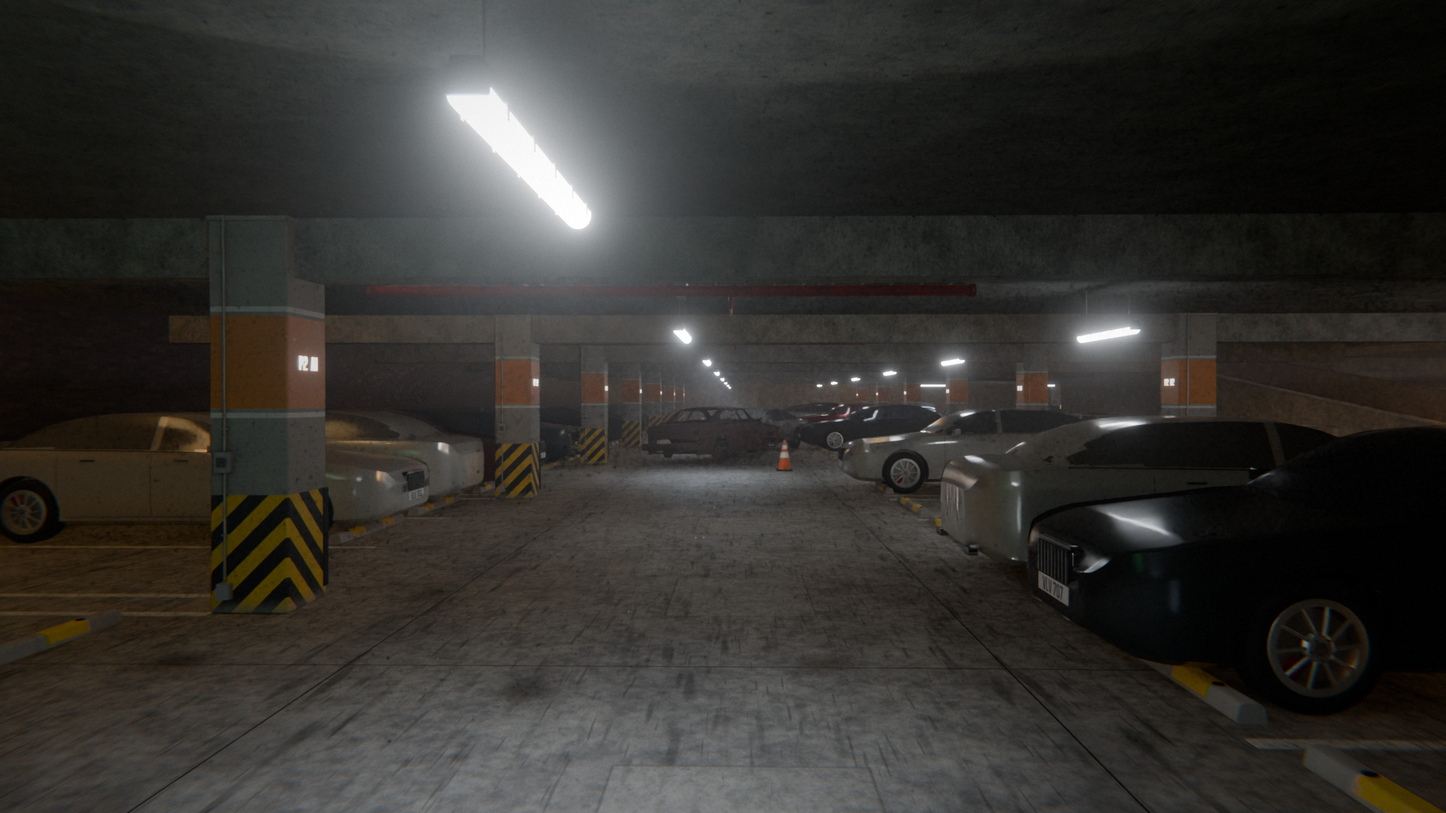
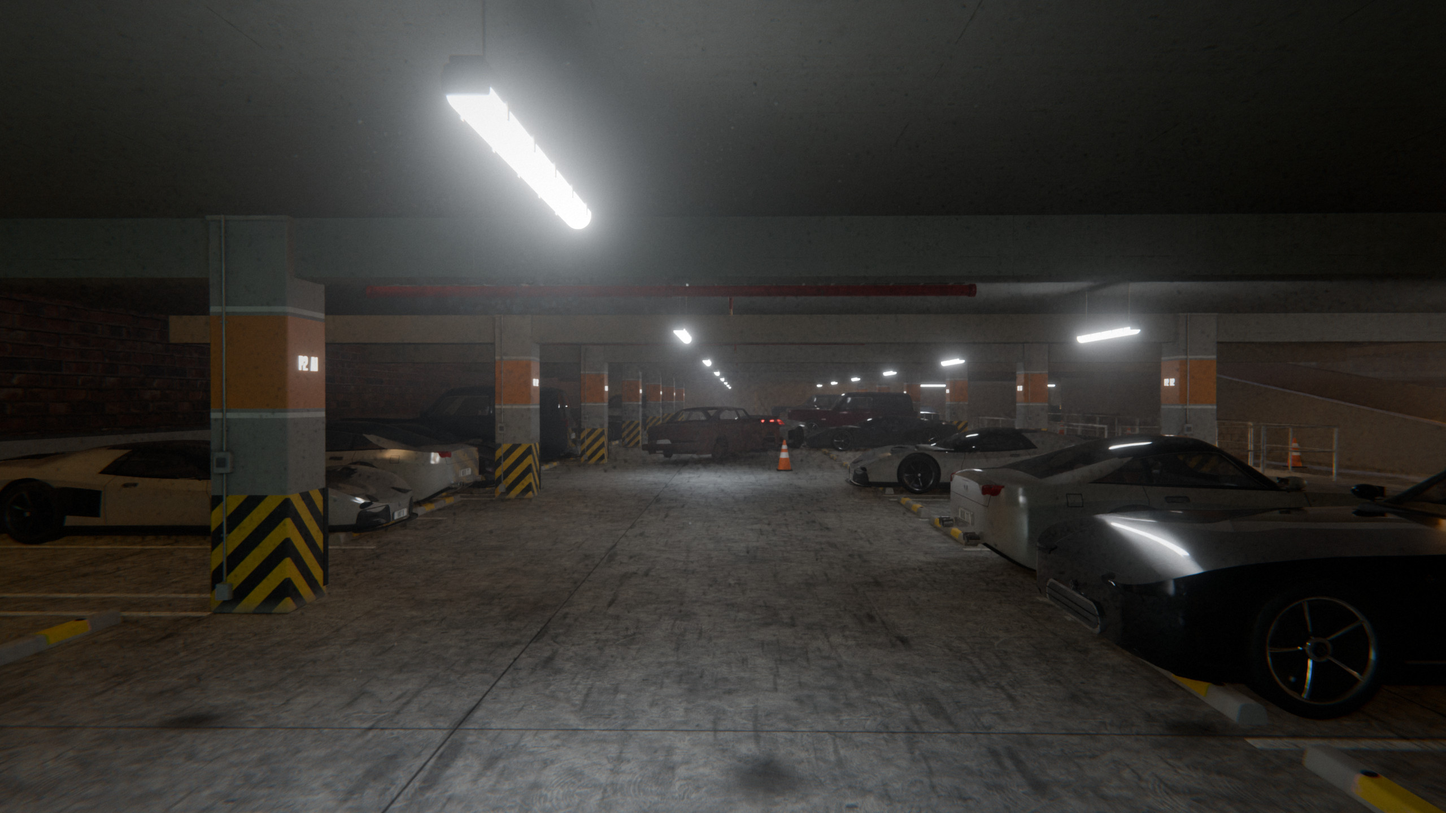
Build review: fix literal-format Printf, SWidget::IsEnabled hiding, GI() shadowing, legacy PI, duplicate subtitles row
Claude-Session: https://claude.ai/code/session_0118nFYumEjG82mLGbGwmWwA

diff --git a/Source/AndrewsAirsoft/Private/UI/SAirsoftMainMenu.cpp b/Source/AndrewsAirsoft/Private/UI/SAirsoftMainMenu.cpp
@@ -893,11 +893,11 @@ TSharedRef<SWidget> SAirsoftMainMenu::MakeStat(const FString& Label, TFunction<i
 
 TSharedRef<SWidget> SAirsoftMainMenu::BuildProfileCard()
 {
-	UAirsoftGameInstance* GI = AUI::GetGameInstance(WeakPC.Get());
-	FString InitialName = GI ? GI->GetUserSettings().PlayerName : FString();
-	if (InitialName.IsEmpty() && GI)
+	UAirsoftGameInstance* Instance = AUI::GetGameInstance(WeakPC.Get());
+	FString InitialName = Instance ? Instance->GetUserSettings().PlayerName : FString();
+	if (InitialName.IsEmpty() && Instance)
 	{
-		InitialName = GI->GetPlayerName();
+		InitialName = Instance->GetPlayerName();
 	}
 
 	return SNew(SBox)
@@ -1069,8 +1069,8 @@ TSharedRef<SWidget> SAirsoftMainMenu::BuildProfileCard()
 
 void SAirsoftMainMenu::Join()
 {
-	UAirsoftGameInstance* GI = AUI::GetGameInstance(WeakPC.Get());
-	if (!GI || !AddressBox.IsValid())
+	UAirsoftGameInstance* Instance = AUI::GetGameInstance(WeakPC.Get());
+	if (!Instance || !AddressBox.IsValid())
 	{
 		return;
 	}
@@ -1086,23 +1086,23 @@ void SAirsoftMainMenu::Join()
 		SaveName(NameBox->GetText().ToString());
 	}
 	LocalMessage = FString::Printf(TEXT("Connecting to %s..."), *Address);
-	GI->PendingMenuMessage.Reset();
-	GI->JoinGame(Address);
+	Instance->PendingMenuMessage.Reset();
+	Instance->JoinGame(Address);
 }
 
 void SAirsoftMainMenu::SaveName(const FString& Raw)
 {
-	UAirsoftGameInstance* GI = AUI::GetGameInstance(WeakPC.Get());
-	if (!GI)
+	UAirsoftGameInstance* Instance = AUI::GetGameInstance(WeakPC.Get());
+	if (!Instance)
 	{
 		return;
 	}
 	const FString Clean = Raw.TrimStartAndEnd().Left(AirsoftMainMenuLocal::MaxNameLength);
-	FAirsoftUserSettings Settings = GI->GetUserSettings();
+	FAirsoftUserSettings Settings = Instance->GetUserSettings();
 	if (Settings.PlayerName == Clean)
 	{
 		return;
 	}
 	Settings.PlayerName = Clean;
-	GI->SetUserSettings(Settings);
+	Instance->SetUserSettings(Settings);
 }

diff --git a/Source/AndrewsAirsoft/Private/UI/SAirsoftSettings.cpp b/Source/AndrewsAirsoft/Private/UI/SAirsoftSettings.cpp
@@ -103,7 +103,6 @@ void SAirsoftSettings::Apply()
 	Settings.BotSkill = Working.BotSkill;
 	Settings.Difficulty = Working.Difficulty;
 	Settings.ColorblindMode = Working.ColorblindMode;
-	Settings.bSubtitles = Working.bSubtitles;
 	Settings.KeyBindings = Working.KeyBindings;
 	GI->SetUserSettings(Settings);
 }
@@ -558,12 +557,6 @@ void SAirsoftSettings::Construct(const FArguments& InArgs, AAirsoftPlayerControl
 		ChoiceRow(TEXT("Screen shake"), TEXT("Camera shake from nearby grenades and when you are tagged."), { TEXT("ON"), TEXT("OFF") },
 			[this]() { return Working.bScreenShake ? 0 : 1; },
 			[this](int32 Index) { Working.bScreenShake = Index == 0; })
-	];
-	Rows->AddSlot().AutoHeight().Padding(FMargin(0.f, 0.f, 0.f, 4.f))
-	[
-		ChoiceRow(TEXT("Subtitles"), TEXT("Story: the speaker and every spoken line at the bottom of the screen."), { TEXT("ON"), TEXT("OFF") },
-			[this]() { return Working.bSubtitles ? 0 : 1; },
-			[this](int32 Index) { Working.bSubtitles = Index == 0; })
 	];
 
 	Rows->AddSlot().AutoHeight()[Section(TEXT("ACCESSIBILITY"))];

diff --git a/Source/AndrewsAirsoft/Private/UI/SAirsoftSubtitles.cpp b/Source/AndrewsAirsoft/Private/UI/SAirsoftSubtitles.cpp
@@ -113,7 +113,7 @@ void SAirsoftSubtitles::Construct(const FArguments& InArgs, APlayerController* I
 	];
 }
 
-bool SAirsoftSubtitles::IsEnabled() const
+bool SAirsoftSubtitles::AreSubtitlesOn() const
 {
 	const APlayerController* PC = WeakPC.Get();
 	UAirsoftGameInstance* GI = PC ? PC->GetGameInstance<UAirsoftGameInstance>() : nullptr;
@@ -128,7 +128,7 @@ TSharedRef<SWidget> SAirsoftSubtitles::BuildRow(int32 Row)
 		.Padding(FMargin(14.f, 6.f, 14.f, 7.f))
 		.Visibility_Lambda([this, Row]() -> EVisibility
 		{
-			return (IsEnabled() && LineForRow(Row)) ? EVisibility::HitTestInvisible : EVisibility::Collapsed;
+			return (AreSubtitlesOn() && LineForRow(Row)) ? EVisibility::HitTestInvisible : EVisibility::Collapsed;
 		})
 		.BorderBackgroundColor_Lambda([Row]() -> FSlateColor
 		{

diff --git a/Source/AndrewsAirsoft/Private/UI/SAirsoftSummary.cpp b/Source/AndrewsAirsoft/Private/UI/SAirsoftSummary.cpp
@@ -294,7 +294,7 @@ void SAirsoftSummary::Construct(const FArguments& InArgs, AAirsoftPlayerControll
 						{
 							const AAirsoftGameState* State = AUI::GetGameState(WeakPC.Get());
 							const int32 Seconds = State ? FMath::CeilToInt(State->GetTimeRemaining()) : 0;
-							return FText::FromString(FString::Printf(UAirsoftSettings::IsMultiplayerEnabled() ? TEXT("Returning to staging in %d") : TEXT("Continuing in %d"), FMath::Max(0, Seconds)));
+							return FText::FromString(FString::Printf(TEXT("%s %d"), UAirsoftSettings::IsMultiplayerEnabled() ? TEXT("Returning to staging in") : TEXT("Continuing in"), FMath::Max(0, Seconds)));
 						})
 					]
 				]

diff --git a/Source/AndrewsAirsoft/Private/UI/SAirsoftLoading.cpp b/Source/AndrewsAirsoft/Private/UI/SAirsoftLoading.cpp
@@ -116,7 +116,7 @@ public:
 		for (int32 i = 0; i < 3; ++i)
 		{
 			const float Phase = FMath::Frac(T * 1.2f - i * 0.18f);
-			const float Height = 8.f + 18.f * FMath::Sin(Phase * PI);
+			const float Height = 8.f + 18.f * FMath::Sin(Phase * UE_PI);
 			const FVector2f Pos(Size.X - 150.f + i * 14.f, RuleY - 30.f - Height);
 			AUI::PaintRect(OutDrawElements, LayerId + 2, AllottedGeometry, Pos, FVector2f(6.f, Height), i == 1 ? AUI::WithAlpha(Magenta, 0.9f) : AUI::WithAlpha(Amber, 0.9f));
 		}

diff --git a/Source/AndrewsAirsoft/Private/UI/SAirsoftSubtitles.h b/Source/AndrewsAirsoft/Private/UI/SAirsoftSubtitles.h
@@ -33,7 +33,7 @@ public:
 
 private:
 	TSharedRef<SWidget> BuildRow(int32 Row);
-	bool IsEnabled() const;
+	bool AreSubtitlesOn() const;
 
 	TWeakObjectPtr<APlayerController> WeakPC;
 };
